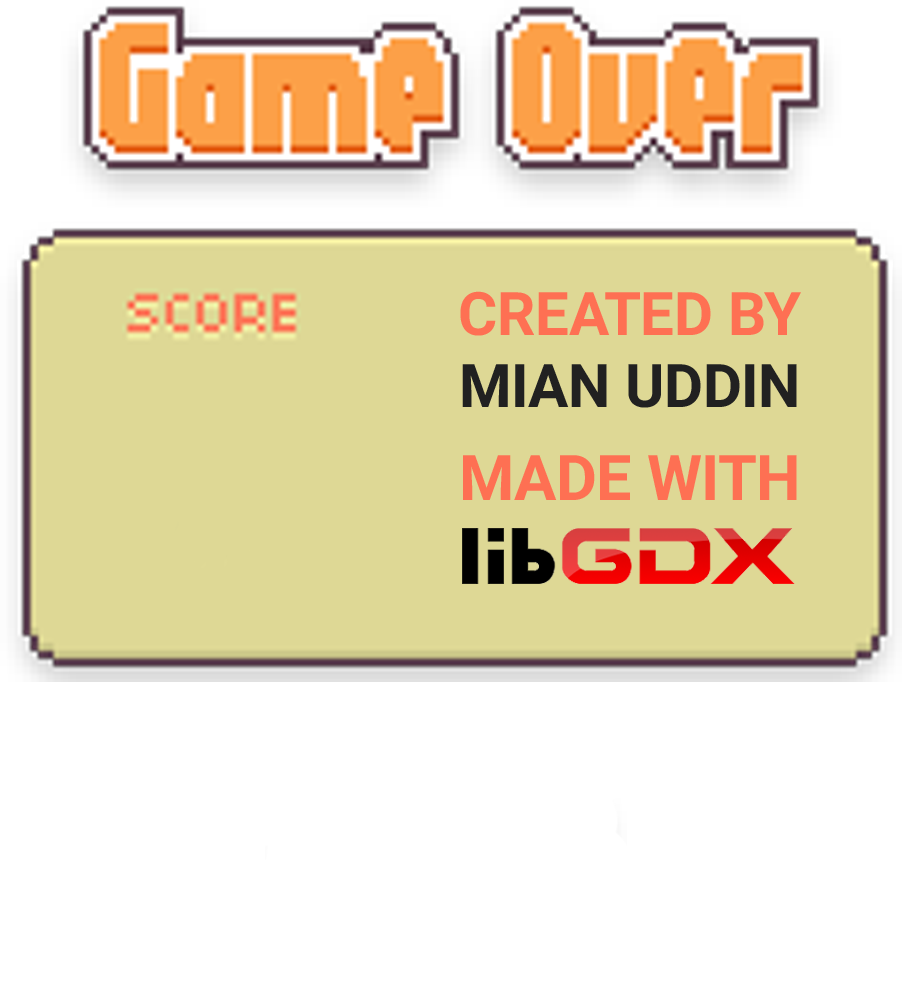
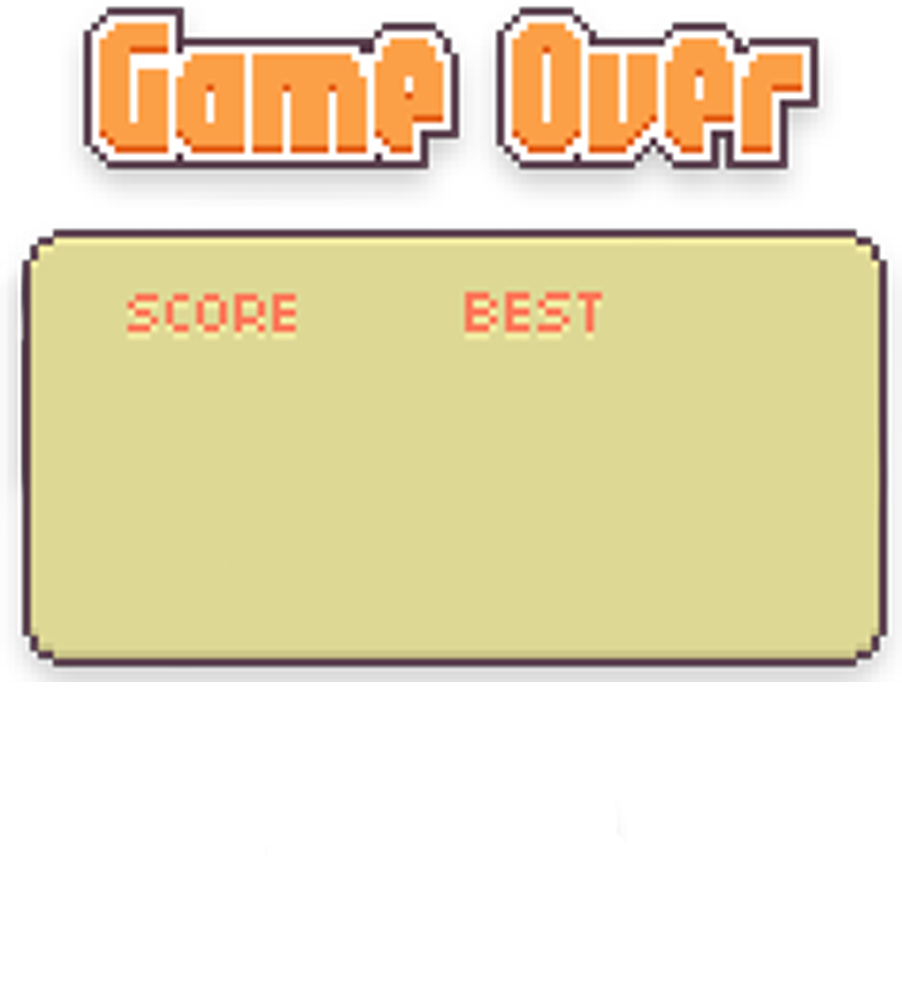
Added high score.

diff --git a/core/src/com/mianuddin/flappyB/screen/GameScreen.java b/core/src/com/mianuddin/flappyB/screen/GameScreen.java
@@ -1,6 +1,7 @@
 package com.mianuddin.flappyB.screen;
 
 import com.badlogic.gdx.Gdx;
+import com.badlogic.gdx.Preferences;
 import com.badlogic.gdx.audio.Sound;
 import com.badlogic.gdx.graphics.g2d.BitmapFont;
 import com.badlogic.gdx.graphics.g2d.SpriteBatch;
@@ -28,6 +29,7 @@ public class GameScreen extends Screen {
     Pipes pipes1;
     Pipes pipes2;
     BitmapFont font;
+    Preferences pref = Gdx.app.getPreferences("Flappy Scores");
 
     @Override
     public void create() {
@@ -47,6 +49,11 @@ public class GameScreen extends Screen {
 
     @Override
     public void render(SpriteBatch sb) {
+
+        if(Gdx.input.justTouched()) {
+            Vector2 touchPoint = new Vector2(camera.unprojectCoordinates(Gdx.input.getX(), Gdx.input.getY()));
+            System.out.println("(" + touchPoint.x + ", " + touchPoint.y + ")");
+        }
 
         moveComponents();
 
@@ -106,14 +113,20 @@ public class GameScreen extends Screen {
     public void drawGameOver(SpriteBatch sb) {
 
         if(!playing && !splash)  {
+            if(points >= pref.getInteger("High Score", points)) {
+                pref.putInteger("High Score", points);
+            }
+            Integer highScore = pref.getInteger("High Score");
 
             // Game Over Screen
             sb.draw(TextureManager.GAME_OVER,
                     flappyB.WIDTH /2 - TextureManager.GAME_OVER.getWidth() / 2,
                     flappyB.HEIGHT /2 - TextureManager.GAME_OVER.getHeight() / 2);
-            BitmapFont.TextBounds fontBounds = font.getBounds(points.toString());
             font.draw(sb, points.toString(),
                     216,
+                    1084);
+            font.draw(sb, highScore.toString(),
+                    550,
                     1084);
 
             // Replay Button

diff --git a/core/src/com/mianuddin/flappyB/components/Pipes.java b/core/src/com/mianuddin/flappyB/components/Pipes.java
@@ -32,7 +32,7 @@ public class Pipes {
         this.positionTopY = flappyB.HEIGHT;
         Random randomGenerator = new Random();
         int randomInt;
-        randomInt = randomGenerator.nextInt(flappyB.HEIGHT-460-(88*2)-gap)+1;
+        randomInt = randomGenerator.nextInt(flappyB.HEIGHT-860-gap);
         positionTopY2 = 548 + randomInt + gap;
         positionBottomY = positionTopY2 - gap;
         positionBottomY2 = 460;

diff --git a/core/src/com/mianuddin/flappyB/components/LilB.java b/core/src/com/mianuddin/flappyB/components/LilB.java
@@ -35,7 +35,7 @@ public class LilB {
             lilbSprite.setRotation(lilbSprite.getRotation() + 25);
             lilbSprite.draw(sb);
             frameCount++;
-            if(frameCount == 30) {
+            if(frameCount == 60) {
                 flap = false;
                 frameCount = 0;
             }
